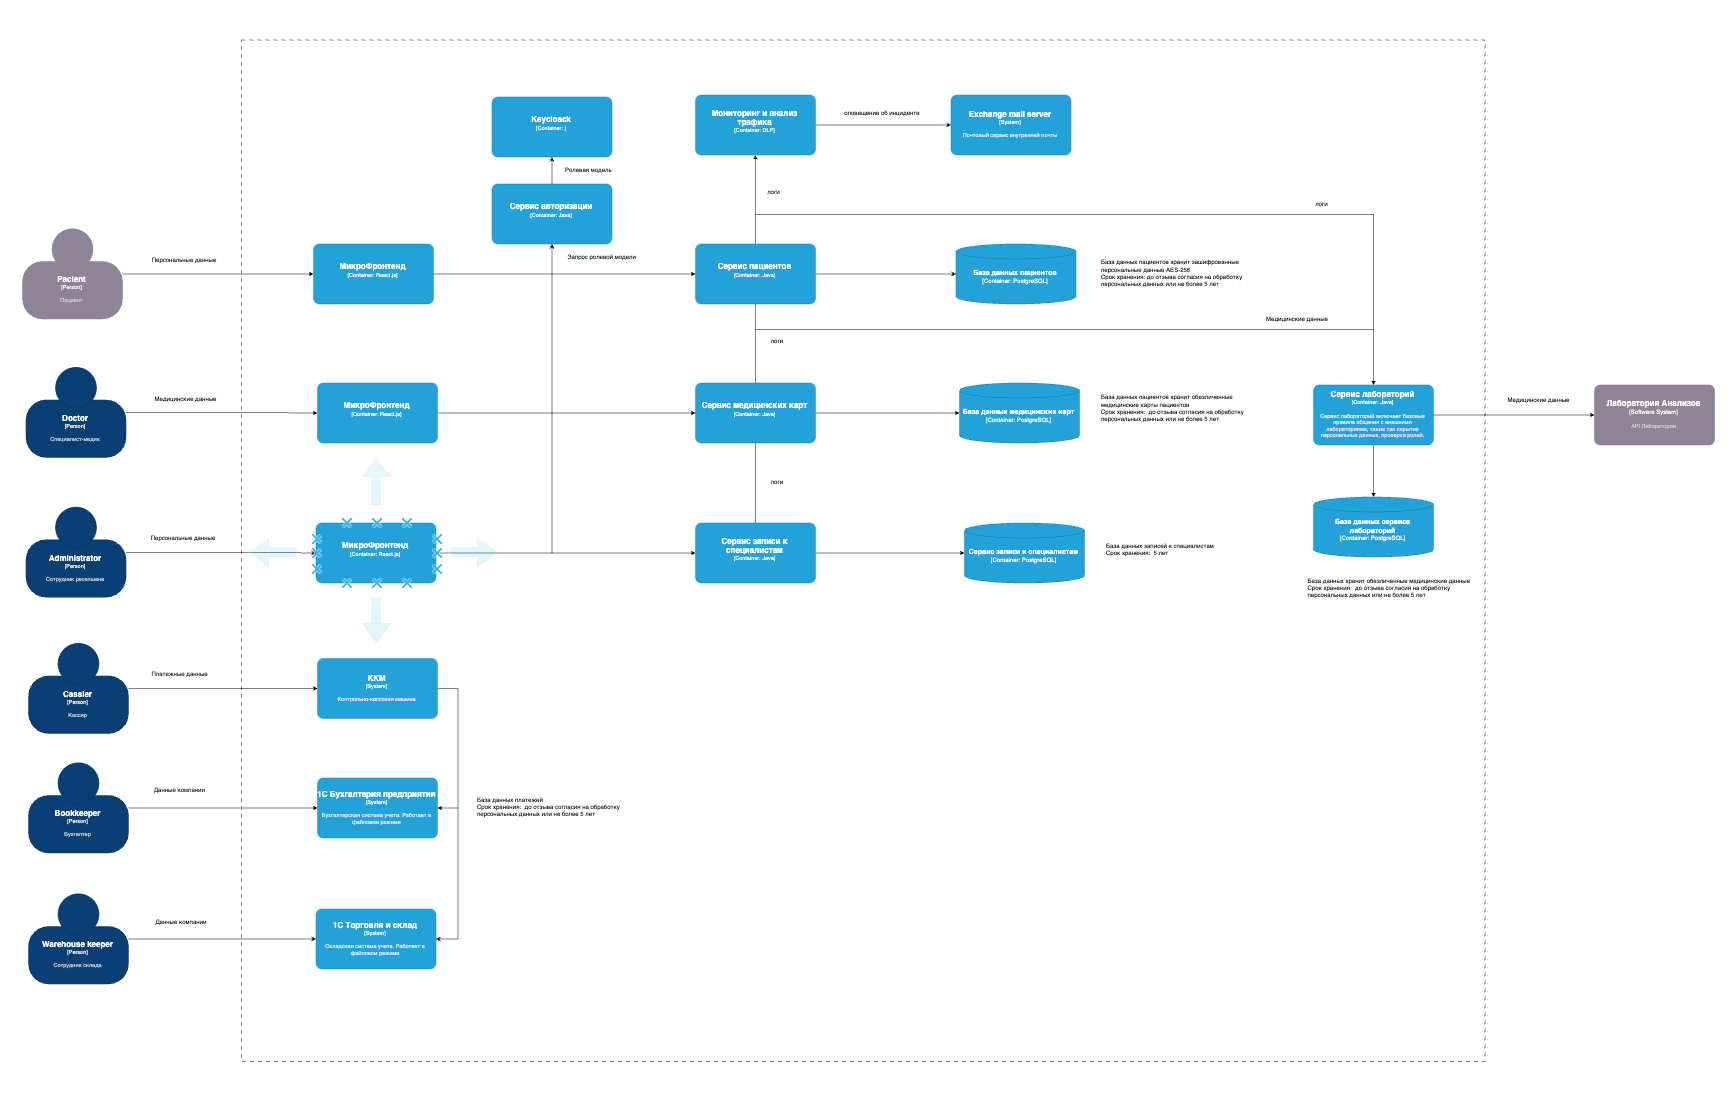
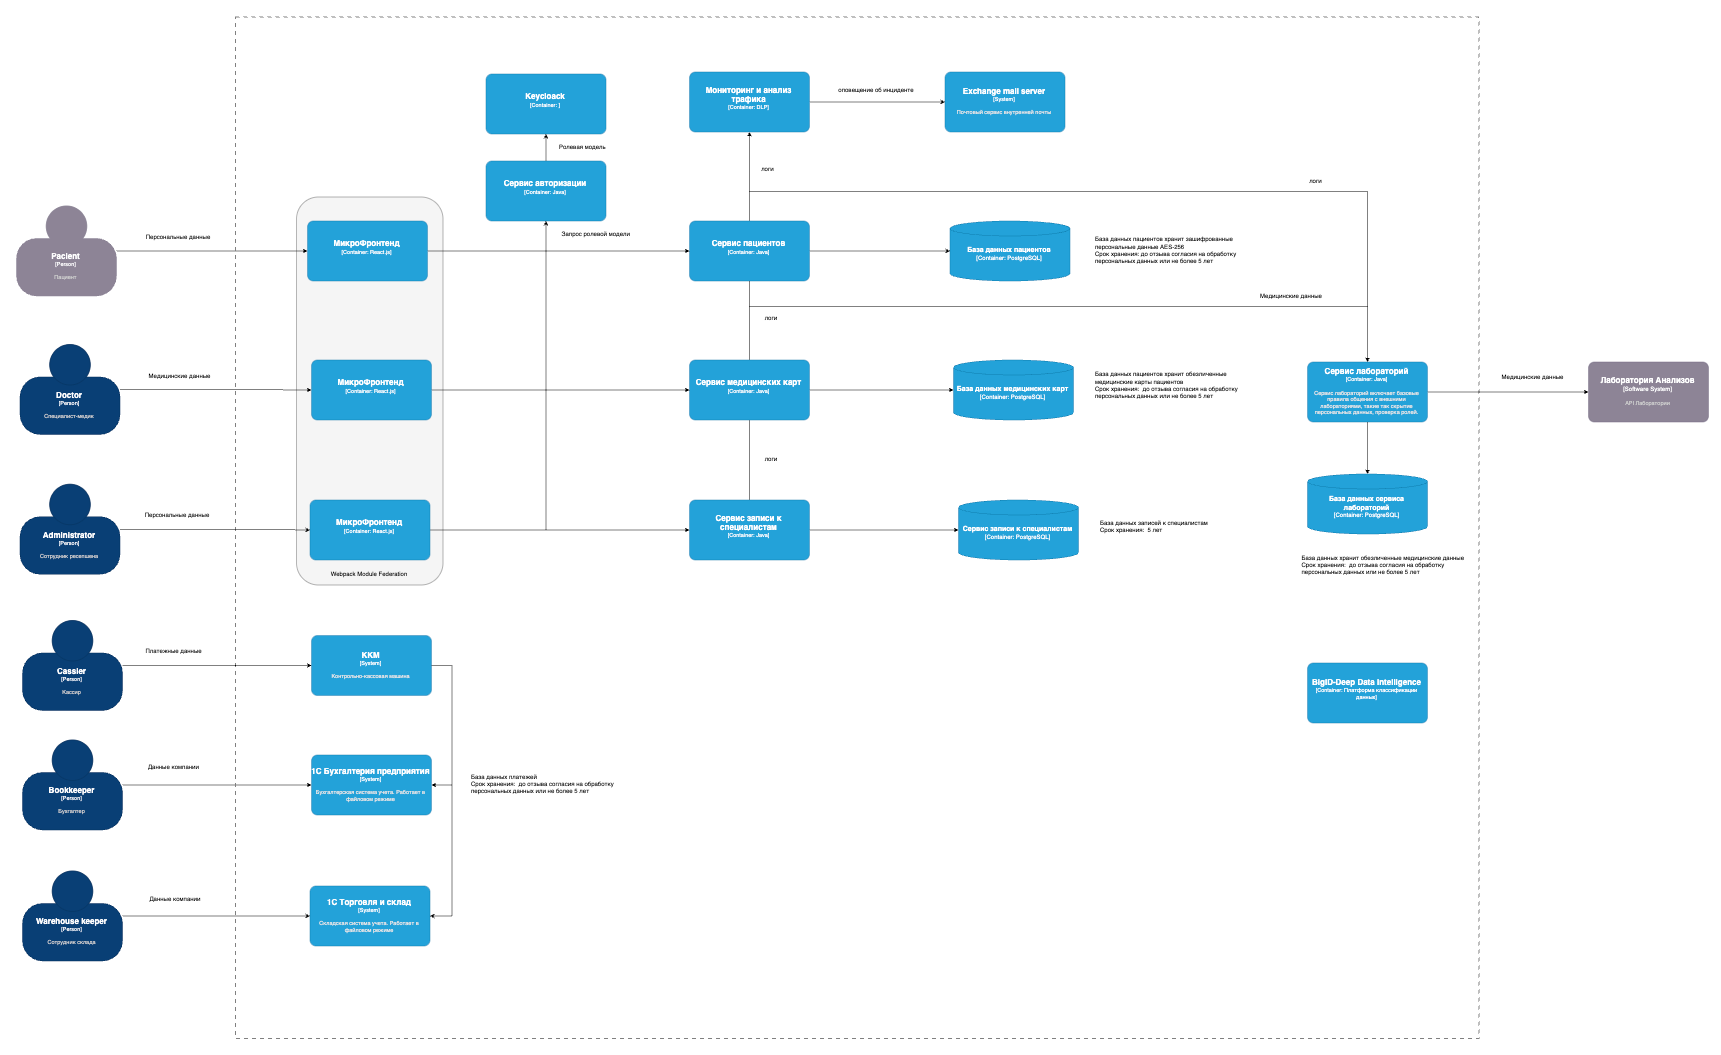
review

diff --git a/Task1/Анализ_состояния_конфиденциальности.md b/Task1/Анализ_состояния_конфиденциальности.md
@@ -18,3 +18,15 @@
 
 Потоки данных в компании:       
 ![Потоки_данных.png](Потоки_данных.png)
+
+Данные можно классифицировать по категориям, выделив тегами:        
+-персональная информация (тег PII);     
+-медицинская информация (тег PHI);      
+-коммерческая информация (тег CI);       
+
+PII — Personally Identifiable Information, или персональные идентифицирующие данные.        
+PHI — Protected Health Information, или защищённая медицинская информация.      
+
+Разметка информации по тегам позволяет управлять и определенным образом защищать данные, например,
+персональные данные шифровать или маскировать, для медицинских - предоставлять доступ только мед.персоналу.     
+Для управления данными можно использовать платформу BigID-Deep Data Intelligence, она позволяет сканировать хранилища данных и классифицировать по их тегам.

diff --git a/Task2/Data_Privacy.md b/Task2/Data_Privacy.md
@@ -11,4 +11,6 @@
 -тегирование данных с разделением на категории;     
 -маскирование персональных данных при использовании и хранении;   
 
+Для управления данными можно использовать платформу BigID-Deep Data Intelligence, она позволяет сканировать хранилища данных и классифицировать по их тегам.        
+
 ![data_privacy.png](data_privacy.png)
